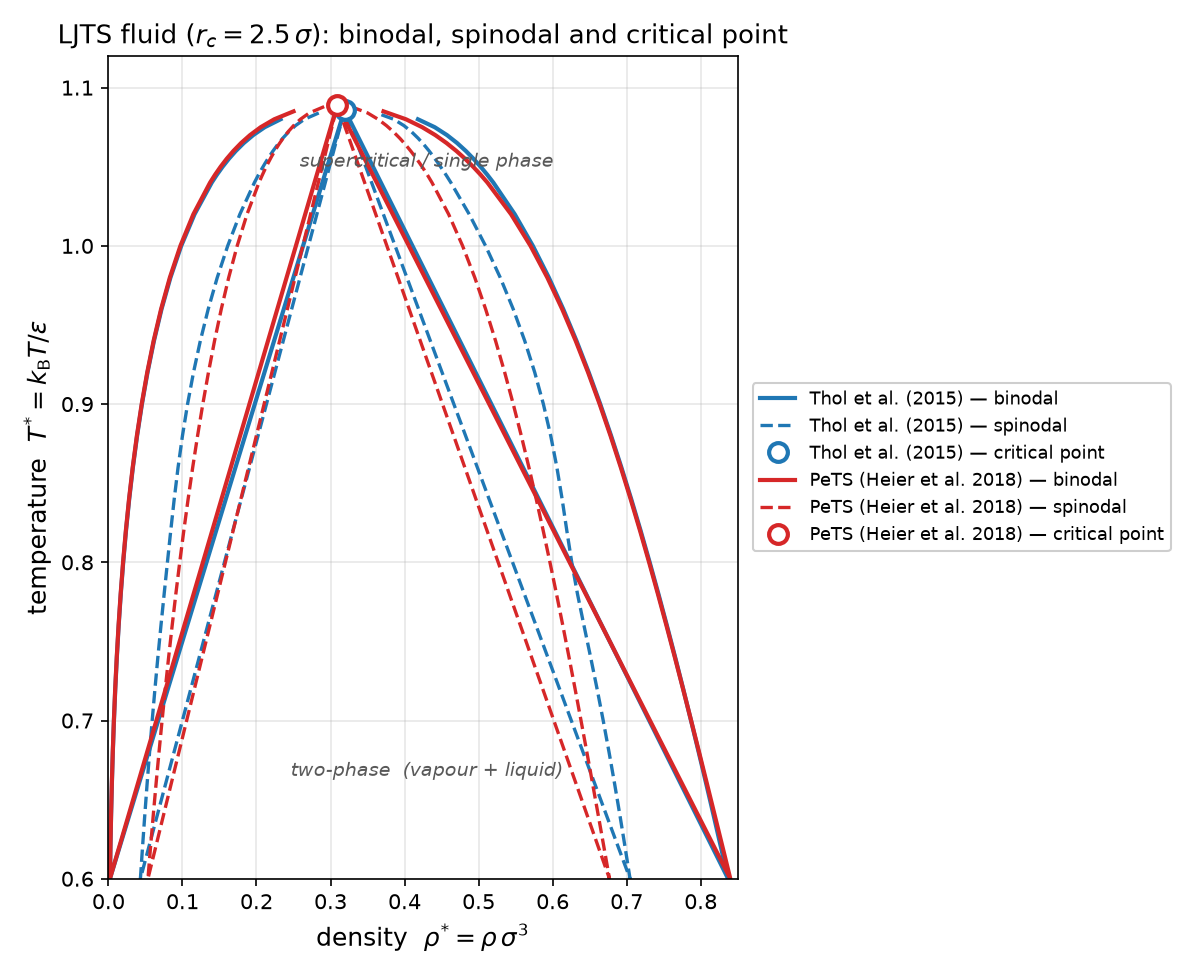
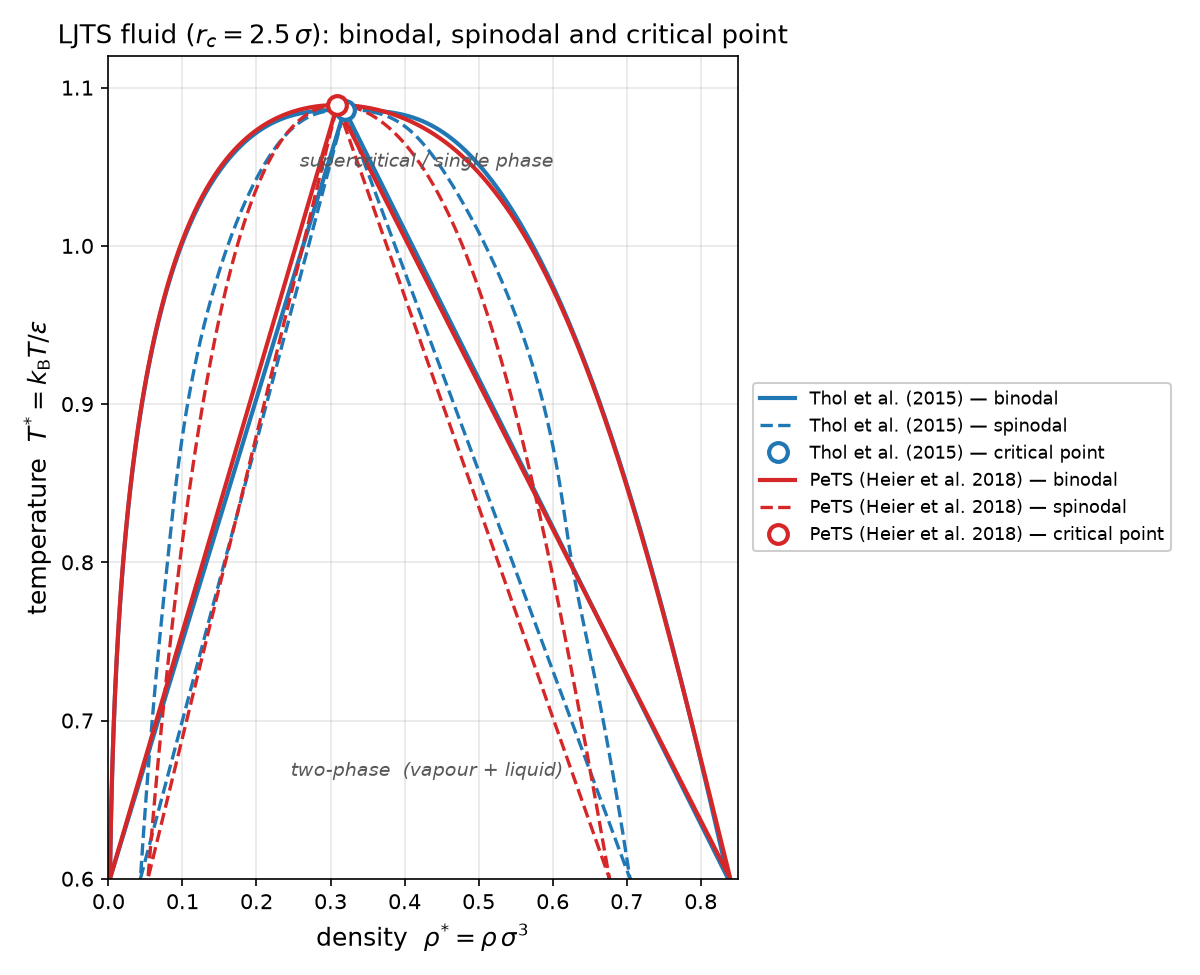
Fix triangular artifact at top of binodal/spinodal domes
The binodal was under-resolved near the critical point: coarse T-steps left
the two branches far apart at the last computed point, and the straight-line
closure to the apex drew a visible triangle. Refine the T-stepping so it
shrinks proportionally to (T_c - T) (the coexistence width scales as
(T_c-T)^1/2), letting both curves approach their critical point smoothly.

Also relax the hard density clamps in the PeTS VLE solver, which were pinning
the near-critical binodal at rho=0.25/0.30; replace with a light positivity +
ordering guard so both branches can approach rho_c.

diff --git a/ljts_eos/plot_phase_diagram.py b/ljts_eos/plot_phase_diagram.py
@@ -34,14 +34,17 @@ def binodal(mod, Tc, rhoc, T_low=0.60):
     Tv, rho_v, rho_l = [], [], []
     rv, rl = 0.0015, 0.82           # low-T initial guess (dilute vapour / dense liquid)
     T = T_low
-    while T < Tc - 1.5e-3:
+    while T < Tc - 1.0e-4:
         rv_s, rl_s, _ = mod.vle(T, rv, rl)
-        if not (1e-6 < rv_s < rl_s) or (rl_s - rv_s) < 3e-3:
+        if not (1e-6 < rv_s < rl_s) or (rl_s - rv_s) < 1e-3:
             break                   # branches have merged -> stop below T_c
         Tv.append(T); rho_v.append(rv_s); rho_l.append(rl_s)
         rv, rl = rv_s, rl_s         # continuation
-        # finer steps close to the critical point where the curve turns over
-        T += 0.02 if (Tc - T) > 0.06 else 0.005
+        # The coexistence width scales like (T_c - T)^1/2, so the dome is flat
+        # in T but wide in rho near the critical point: shrink the T-step there
+        # (proportional to the distance to T_c) to resolve the cap smoothly.
+        dT = max(0.02 * (Tc - T), 2.0e-4)
+        T += min(dT, 0.02)
     return Tv, rho_v, rho_l
 
 
@@ -77,7 +80,7 @@ def spinodal(mod, Tc, rhoc, T_low=0.60):
                 roots.append(_bisect_root(lambda r: dpdrho(mod, T, r), r0, r1))
         if len(roots) >= 2:
             Tv.append(T); rho_v.append(roots[0]); rho_l.append(roots[-1])
-        T += 0.02 if (Tc - T) > 0.06 else 0.004
+        T += min(max(0.02 * (Tc - T), 1.0e-4), 0.02)
     return Tv, rho_v, rho_l
 
 

diff --git a/ljts_eos/pets_eos.py b/ljts_eos/pets_eos.py
@@ -248,8 +248,10 @@ def vle(T, rho_v0=0.01, rho_l0=None):
             break
         rv -= (J22 * F1 - J12 * F2) / det
         rl -= (-J21 * F1 + J11 * F2) / det
-        rv = min(max(rv, 1e-9), 0.25)
-        rl = min(max(rl, 0.30), 0.95)
+        # keep densities positive, ordered (rv < rl) and physical -- but no
+        # tight bounds, so the two branches can approach rho_c near T_c
+        rv = min(max(rv, 1e-9), 0.95)
+        rl = min(max(rl, rv + 1e-6), 0.95)
     return rv, rl, pressure(T, rv)
 
 
